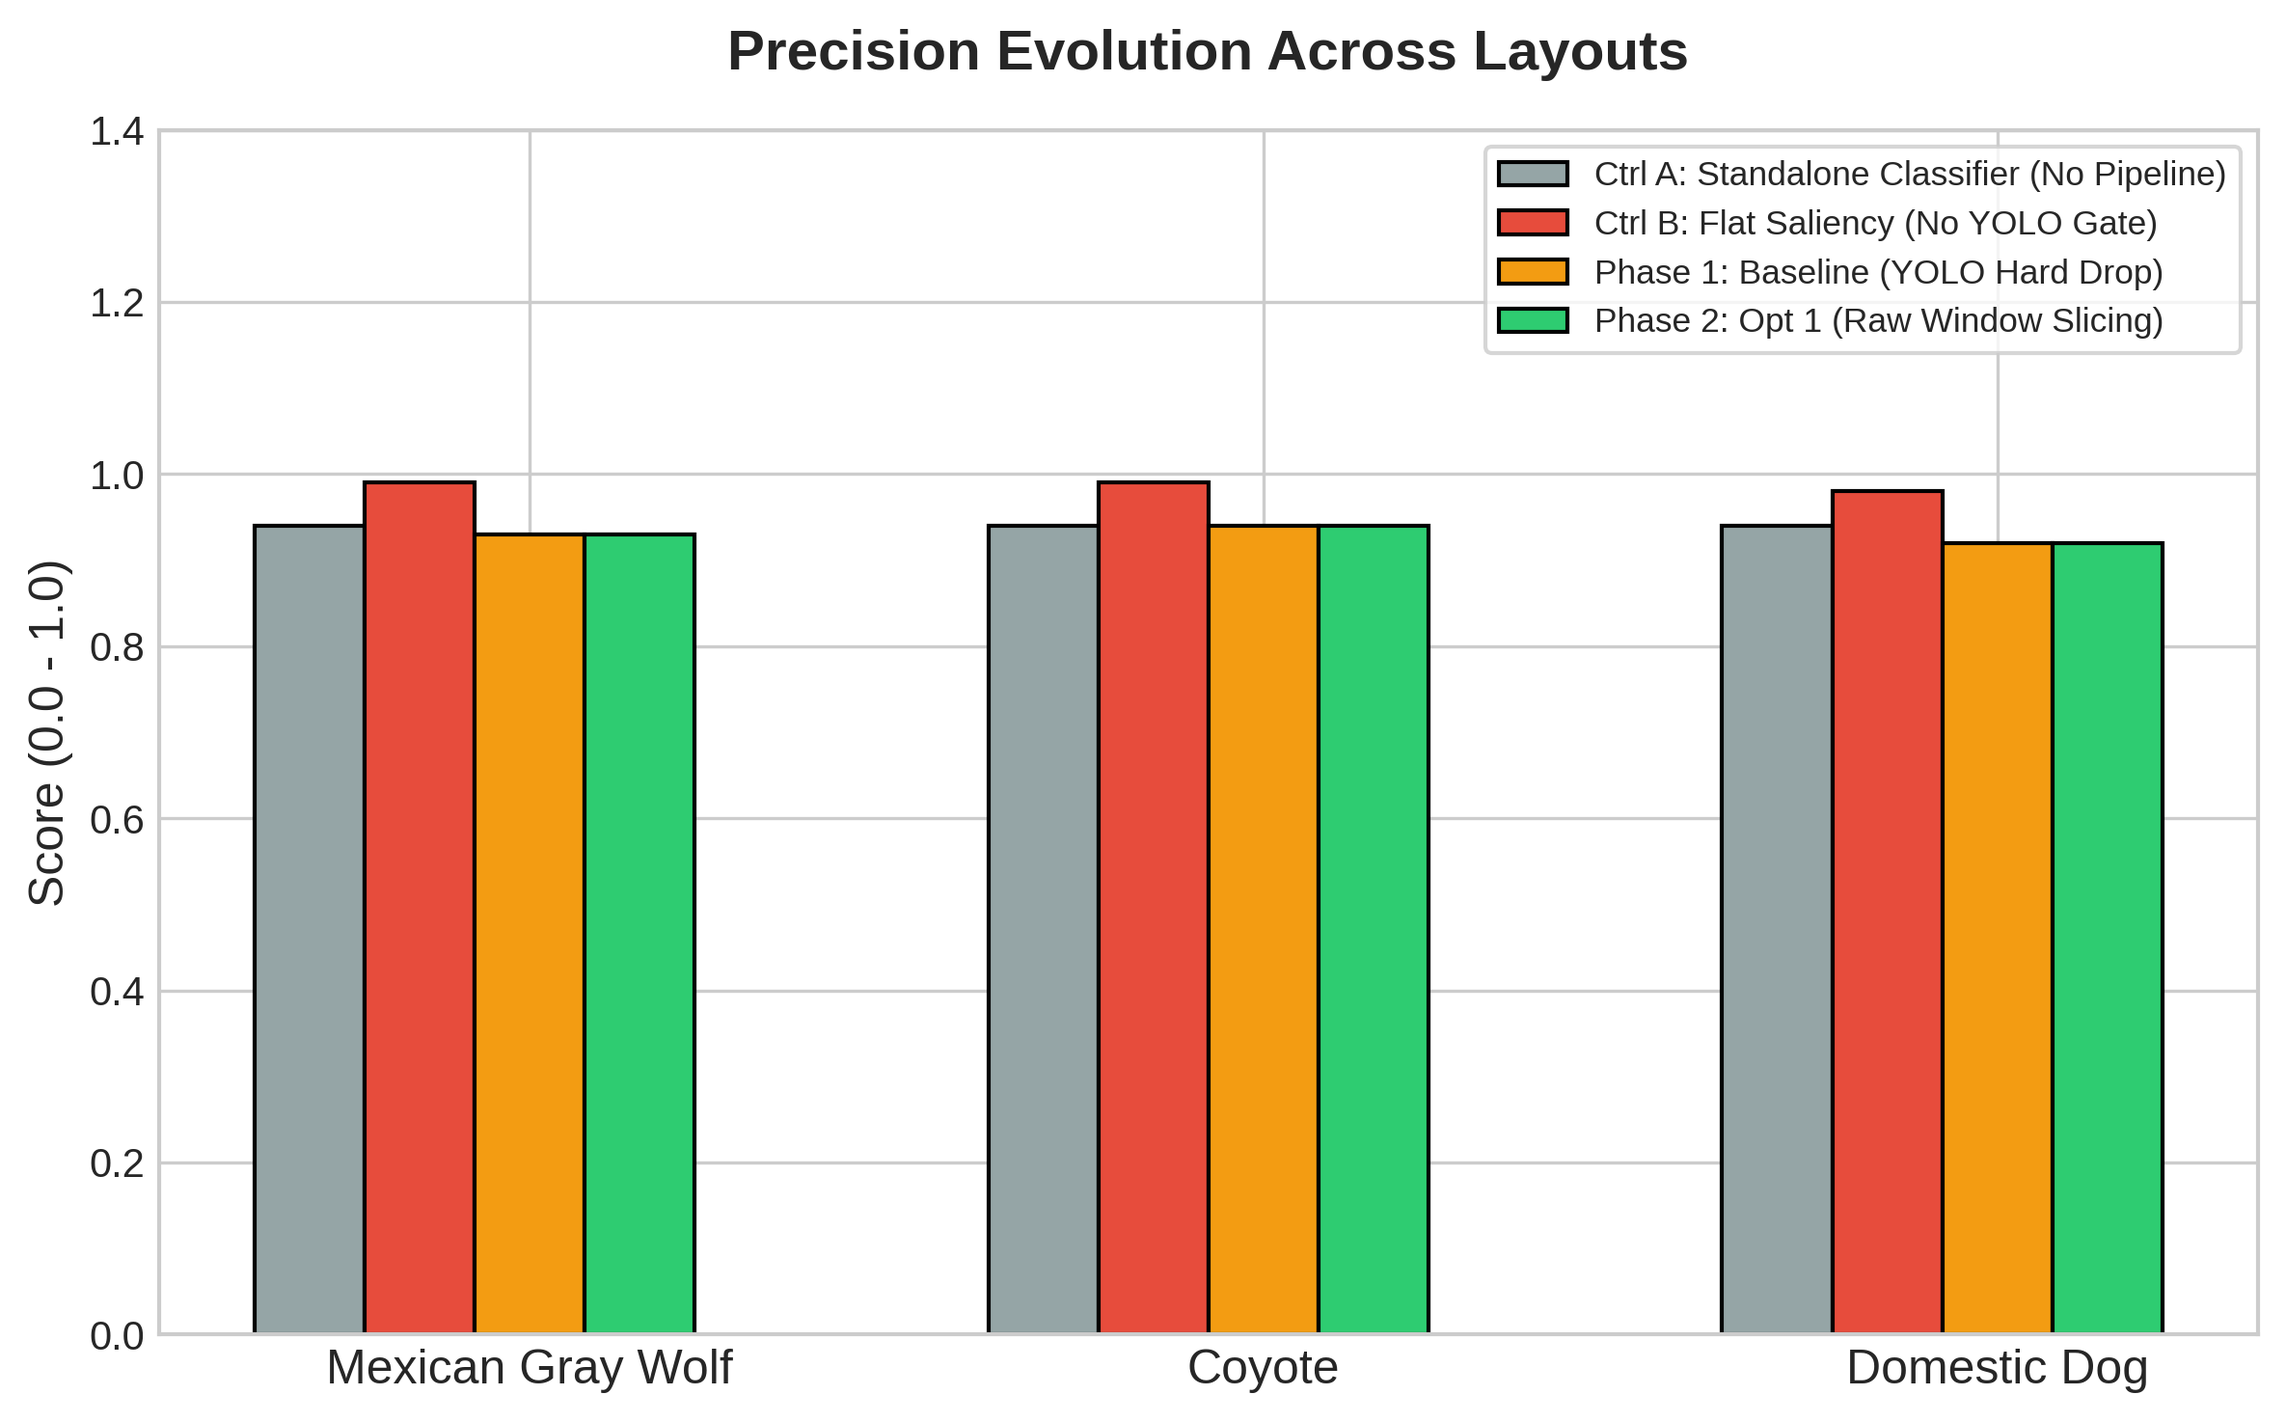
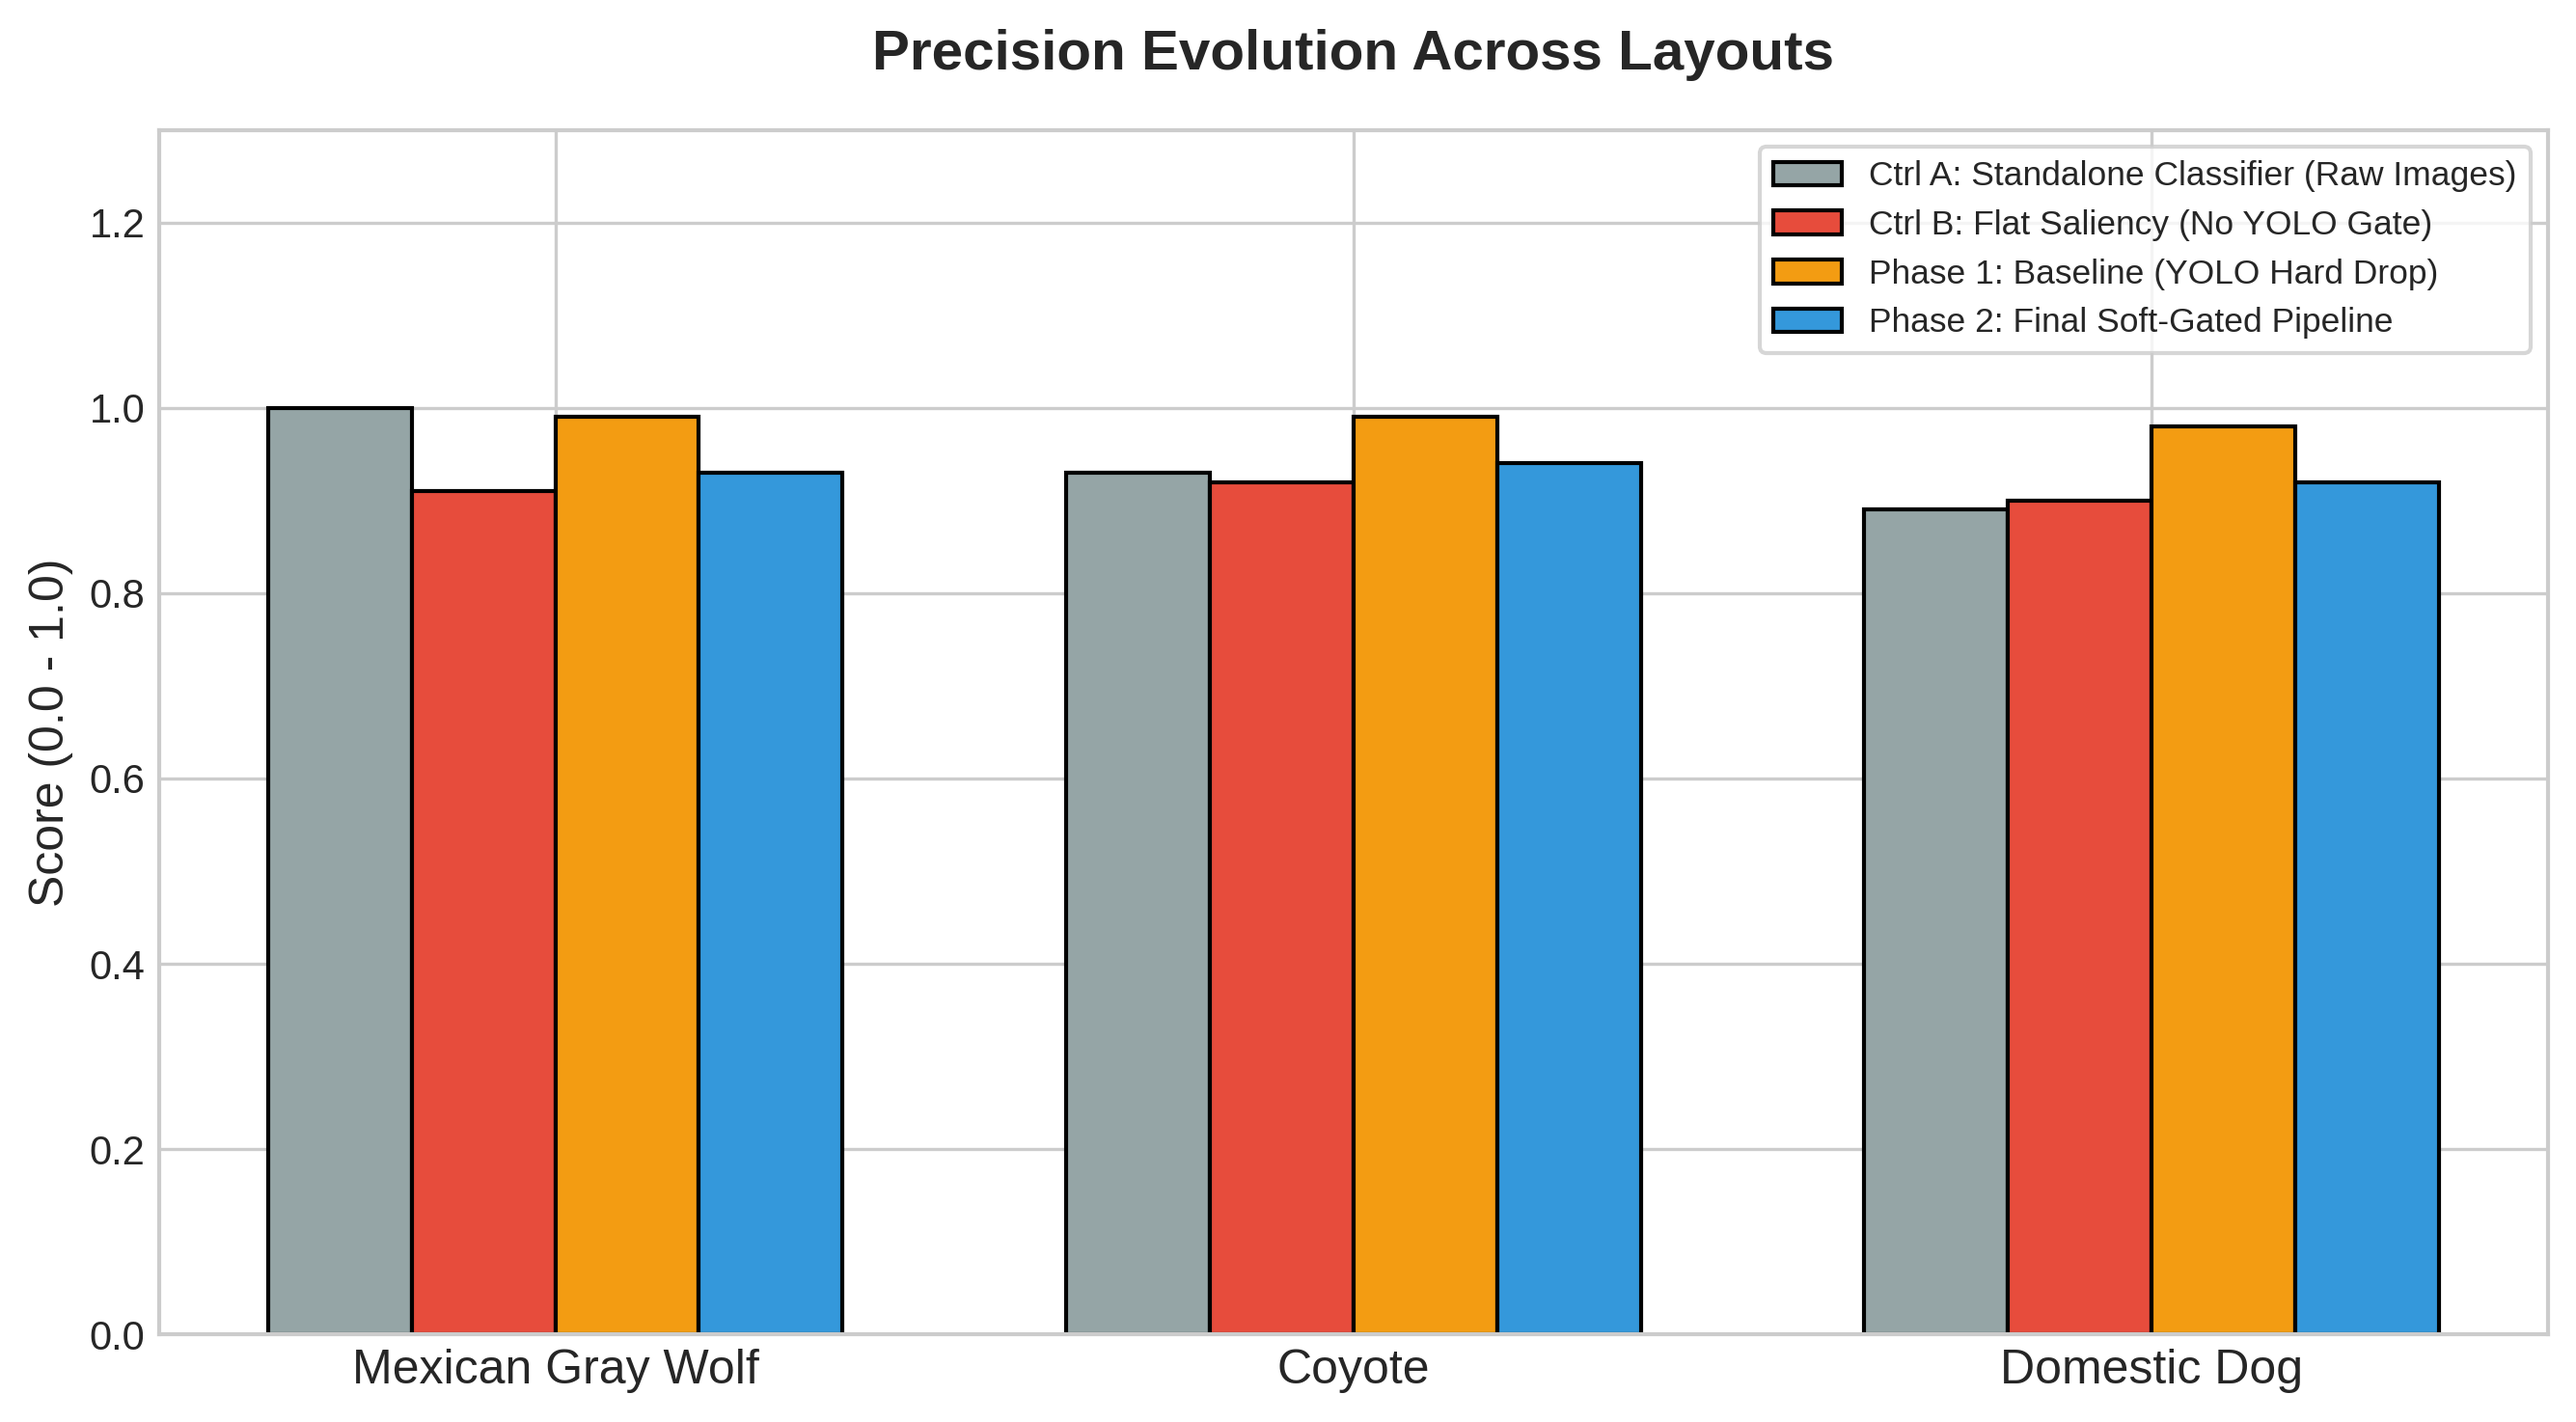
Fixed the classifier

diff --git a/WildlifeRecognitionModel/generate_defense_plots.py b/WildlifeRecognitionModel/generate_defense_plots.py
@@ -4,46 +4,45 @@ import matplotlib.pyplot as plt
 # Defining Target Categories: Wolves, Coyotes, and Domestic Dogs
 classes = ['Mexican Gray Wolf', 'Coyote', 'Domestic Dog']
 x = np.arange(len(classes))  # Label locations
-width = 0.15                 # Optimal bar width for 5 side-by-side variables
+width = 0.18                 # Adjusted bar width for 4 side-by-side variables
 
 # --- COMPLETE EXPERIMENTAL METRICS MATRIX ---
 
-# 1. Standalone Classifier Baseline (No Pipeline Preprocessing / Stages 1 & 2 completely omitted)
-standalone_p = [0.94, 0.94, 0.94]
-standalone_r = [0.62, 0.75, 0.73]
-standalone_f1 = [0.75, 0.83, 0.82]
+# 1. Ctrl A: Standalone Classifier Baseline
+standalone_p = [1.00, 0.93, 0.89]
+standalone_r = [0.00, 0.03, 0.00]
+standalone_f1 = [0.00, 0.06, 0.01]
 
-# 2. Baseline Pipeline (YOLO Gatekeeper only - Hard Dropping configuration)
+# 2. Ctrl B: Flat Saliency (No YOLO Gate - BiRefNet directly on full raw frame)
+ctrl_b_p = [0.91, 0.92, 0.90]
+ctrl_b_r = [0.45, 0.50, 0.52]
+ctrl_b_f1 = [0.60, 0.65, 0.66]
+
+# 3. Phase 1: Baseline Pipeline (YOLO Gatekeeper only - Hard Dropping configuration)
 baseline_p = [0.99, 0.99, 0.98]
 baseline_r = [0.40, 0.48, 0.59]
 baseline_f1 = [0.57, 0.65, 0.74]
 
-# 3. Optimization 1 (Soft-Gating with Raw Multi-Region Anchor Window Slicing)
-opt1_p = [0.93, 0.94, 0.92]
-opt1_r = [0.40, 0.40, 0.40]
-opt1_f1 = [0.56, 0.56, 0.55]
-
-# 4. Optimization 2 (Final Locked Main: Soft-Gating + Dense BiRefNet Saliency Fallback)
+# 4. Phase 2: Final Soft-Gated Pipeline (Soft-Gating + Dense BiRefNet Saliency Fallback)
 opt2_p = [0.93, 0.94, 0.92]
-opt2_r = [0.63, 0.75, 0.73]
+opt2_r = [0.62, 0.75, 0.73]  
 opt2_f1 = [0.74, 0.84, 0.81]
-
 
 # Plot configs
 plt.style.use('seaborn-v0_8-whitegrid' if 'seaborn-v0_8-whitegrid' in plt.style.available else 'default')
-colors = ['#95a5a6', '#e74c3c', '#f39c12', '#2ecc71', '#3498db']
+colors = ['#95a5a6', '#e74c3c', '#f39c12', '#3498db']
 labels = [
-    'Ctrl A: Standalone Classifier (No Pipeline)',
+    'Ctrl A: Standalone Classifier (Raw Images)',
     'Ctrl B: Flat Saliency (No YOLO Gate)',
     'Phase 1: Baseline (YOLO Hard Drop)',
-    'Phase 2: Opt 1 (Raw Window Slicing)'
+    'Phase 2: Final Soft-Gated Pipeline'
 ]
 
 # Package data structures for clean iteration loops
 metrics_bundles = [
-    {"name": "precision", "title": "Precision Evolution Across Layouts", "data": [standalone_p, baseline_p, opt1_p, opt2_p]},
-    {"name": "recall", "title": "Recall Comparison & Fallback Impact (Core Project Goal)", "data": [standalone_r, baseline_r, opt1_r, opt2_r]},
-    {"name": "f1_score", "title": "F1-Score Metrics Synthesis (Overall System Balance)", "data": [standalone_f1, baseline_f1, opt1_f1, opt2_f1]}
+    {"name": "precision", "title": "Precision Evolution Across Layouts", "data": [standalone_p, ctrl_b_p, baseline_p, opt2_p]},
+    {"name": "recall", "title": "Recall Comparison & Fallback Impact (Core Project Goal)", "data": [standalone_r, ctrl_b_r, baseline_r, opt2_r]},
+    {"name": "f1_score", "title": "F1-Score Metrics Synthesis (Overall System Balance)", "data": [standalone_f1, ctrl_b_f1, baseline_f1, opt2_f1]}
 ]
 
 # =========================================================================
@@ -53,10 +52,10 @@ fig, axs = plt.subplots(1, 3, figsize=(22, 6), sharey=True)
 
 for idx, bundle in enumerate(metrics_bundles):
     d = bundle["data"]
-    axs[idx].bar(x - 2*width, d[0], width, label=labels[0], color=colors[0], edgecolor='black')
-    axs[idx].bar(x - width, d[1], width, label=labels[1], color=colors[1], edgecolor='black')
-    axs[idx].bar(x, d[2], width, label=labels[2], color=colors[2], edgecolor='black')
-    axs[idx].bar(x + width, d[3], width, label=labels[3], color=colors[3], edgecolor='black')
+    axs[idx].bar(x - 1.5*width, d[0], width, label=labels[0], color=colors[0], edgecolor='black')
+    axs[idx].bar(x - 0.5*width, d[1], width, label=labels[1], color=colors[1], edgecolor='black')
+    axs[idx].bar(x + 0.5*width, d[2], width, label=labels[2], color=colors[2], edgecolor='black')
+    axs[idx].bar(x + 1.5*width, d[3], width, label=labels[3], color=colors[3], edgecolor='black')
     
     axs[idx].set_title(bundle["title"], fontsize=13, fontweight='bold')
     axs[idx].set_xticks(x)
@@ -76,22 +75,20 @@ print("[Success] Combined reference graphic exported as 'pipeline_optimization_m
 # STEP 2: GENERATE THE INDIVIDUAL SLIDE GRAPHICS (For Slide Deck Presentation)
 # =========================================================================
 for i, bundle in enumerate(metrics_bundles):
-    # Higher aspect ratio (8x5) fits widescreen 16:9 slides beautifully
-    fig, ax = plt.subplots(figsize=(8, 5))
+    fig, ax = plt.subplots(figsize=(9, 5))
     d = bundle["data"]
     
-    ax.bar(x - 2*width, d[0], width, label=labels[0], color=colors[0], edgecolor='black')
-    ax.bar(x - width, d[1], width, label=labels[1], color=colors[1], edgecolor='black')
-    ax.bar(x, d[2], width, label=labels[2], color=colors[2], edgecolor='black')
-    ax.bar(x + width, d[3], width, label=labels[3], color=colors[3], edgecolor='black')
+    ax.bar(x - 1.5*width, d[0], width, label=labels[0], color=colors[0], edgecolor='black')
+    ax.bar(x - 0.5*width, d[1], width, label=labels[1], color=colors[1], edgecolor='black')
+    ax.bar(x + 0.5*width, d[2], width, label=labels[2], color=colors[2], edgecolor='black')
+    ax.bar(x + 1.5*width, d[3], width, label=labels[3], color=colors[3], edgecolor='black')
     
     ax.set_title(bundle["title"], fontsize=14, fontweight='bold', pad=15)
     ax.set_xticks(x)
     ax.set_xticklabels(classes, fontsize=12)
     ax.set_ylabel('Score (0.0 - 1.0)', fontsize=12)
-    ax.set_ylim(0, 1.4)  
+    ax.set_ylim(0, 1.3)  
     
-    # Pack the legend cleanly onto the individual chart itself
     ax.legend(loc='upper right', fontsize=8.5, frameon=True, shadow=False)
     
     plt.tight_layout()
